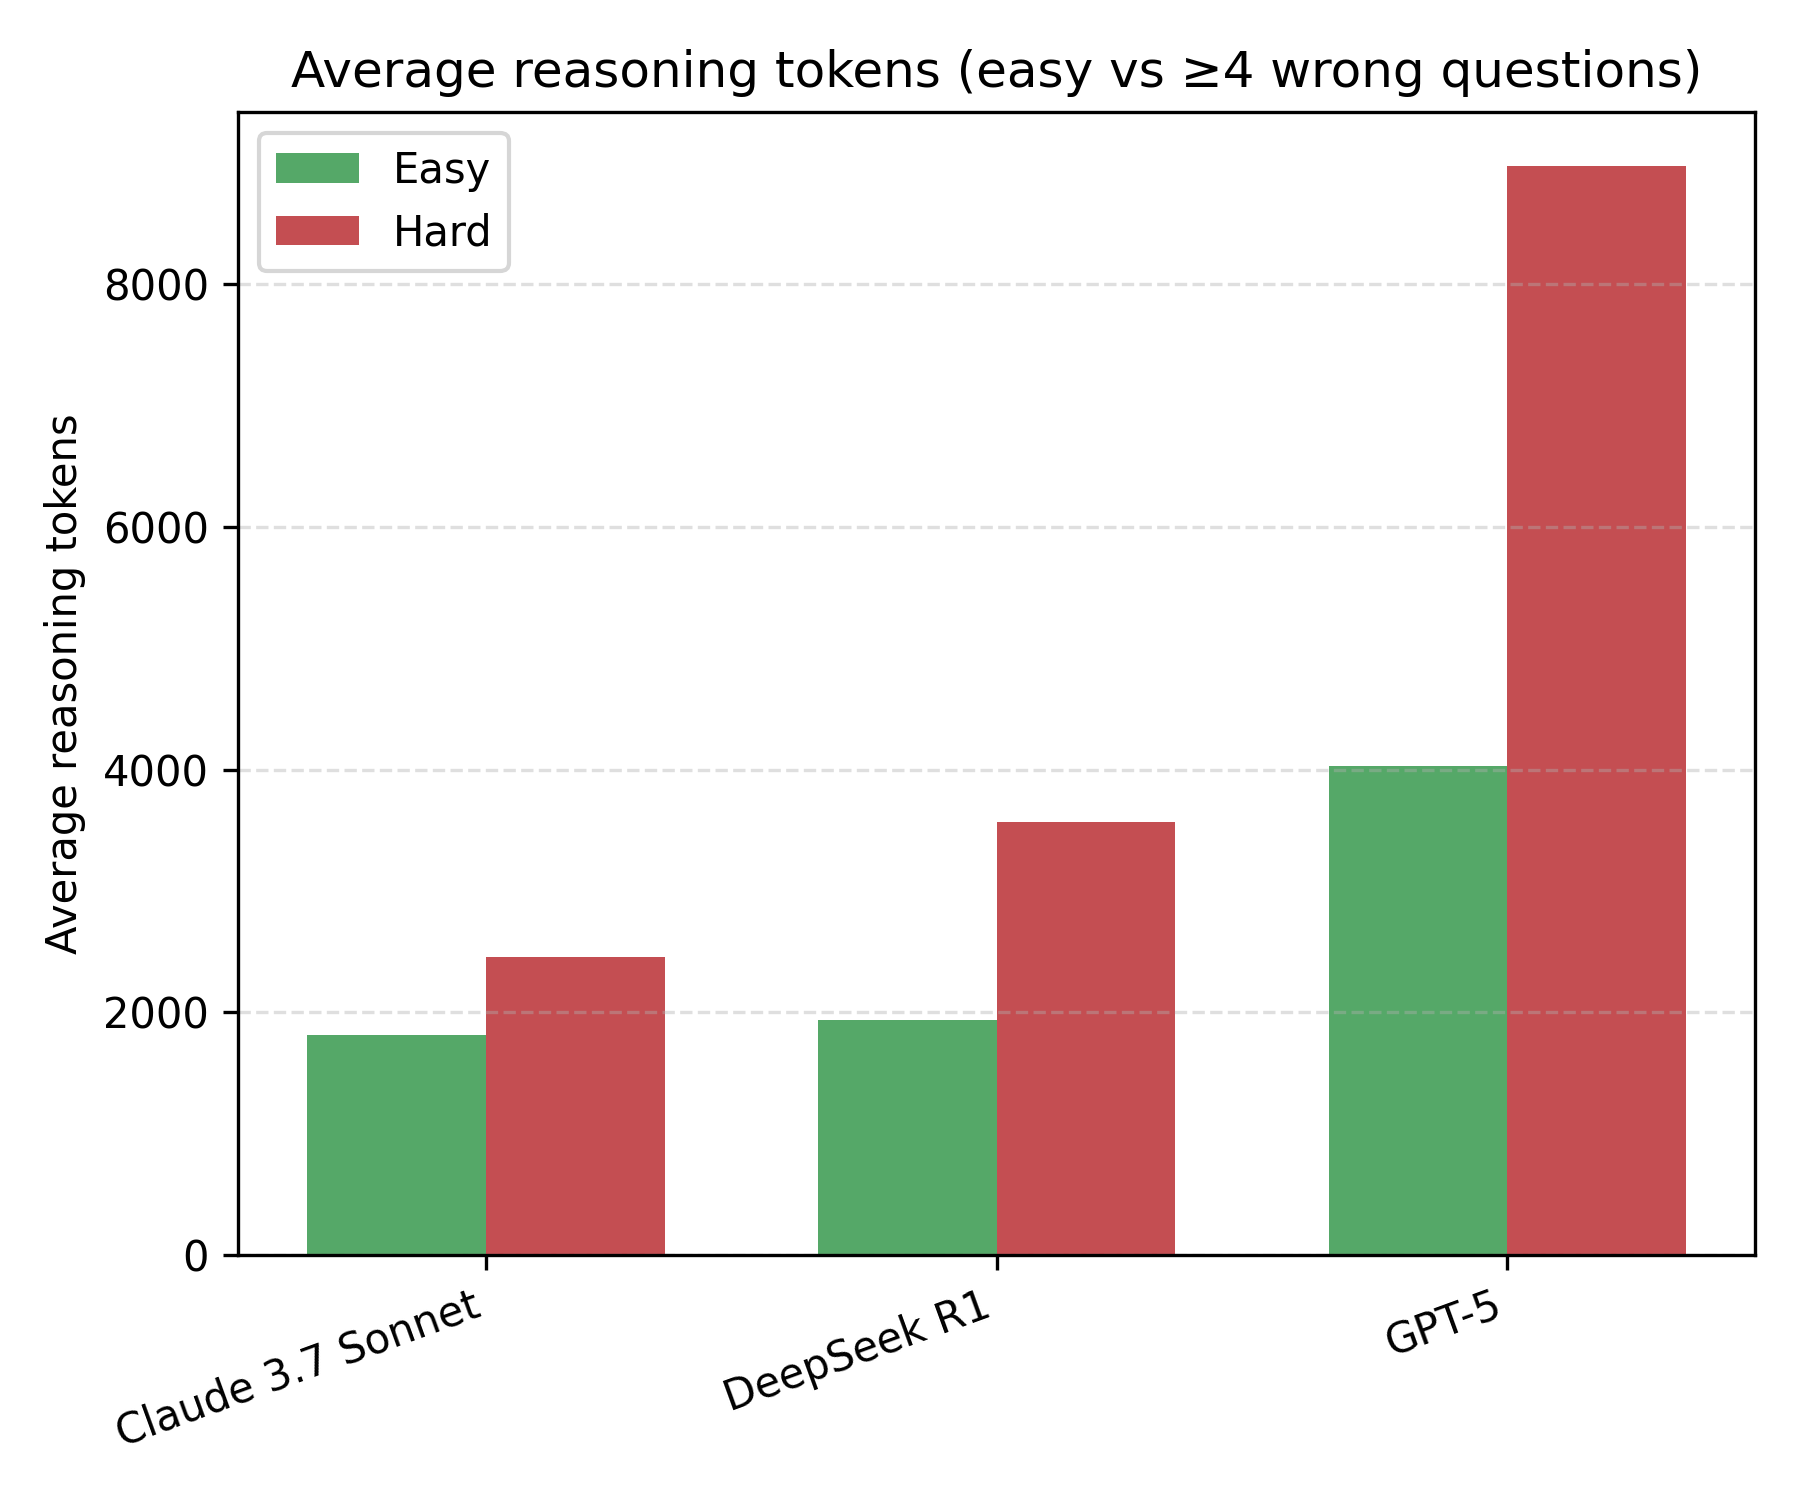
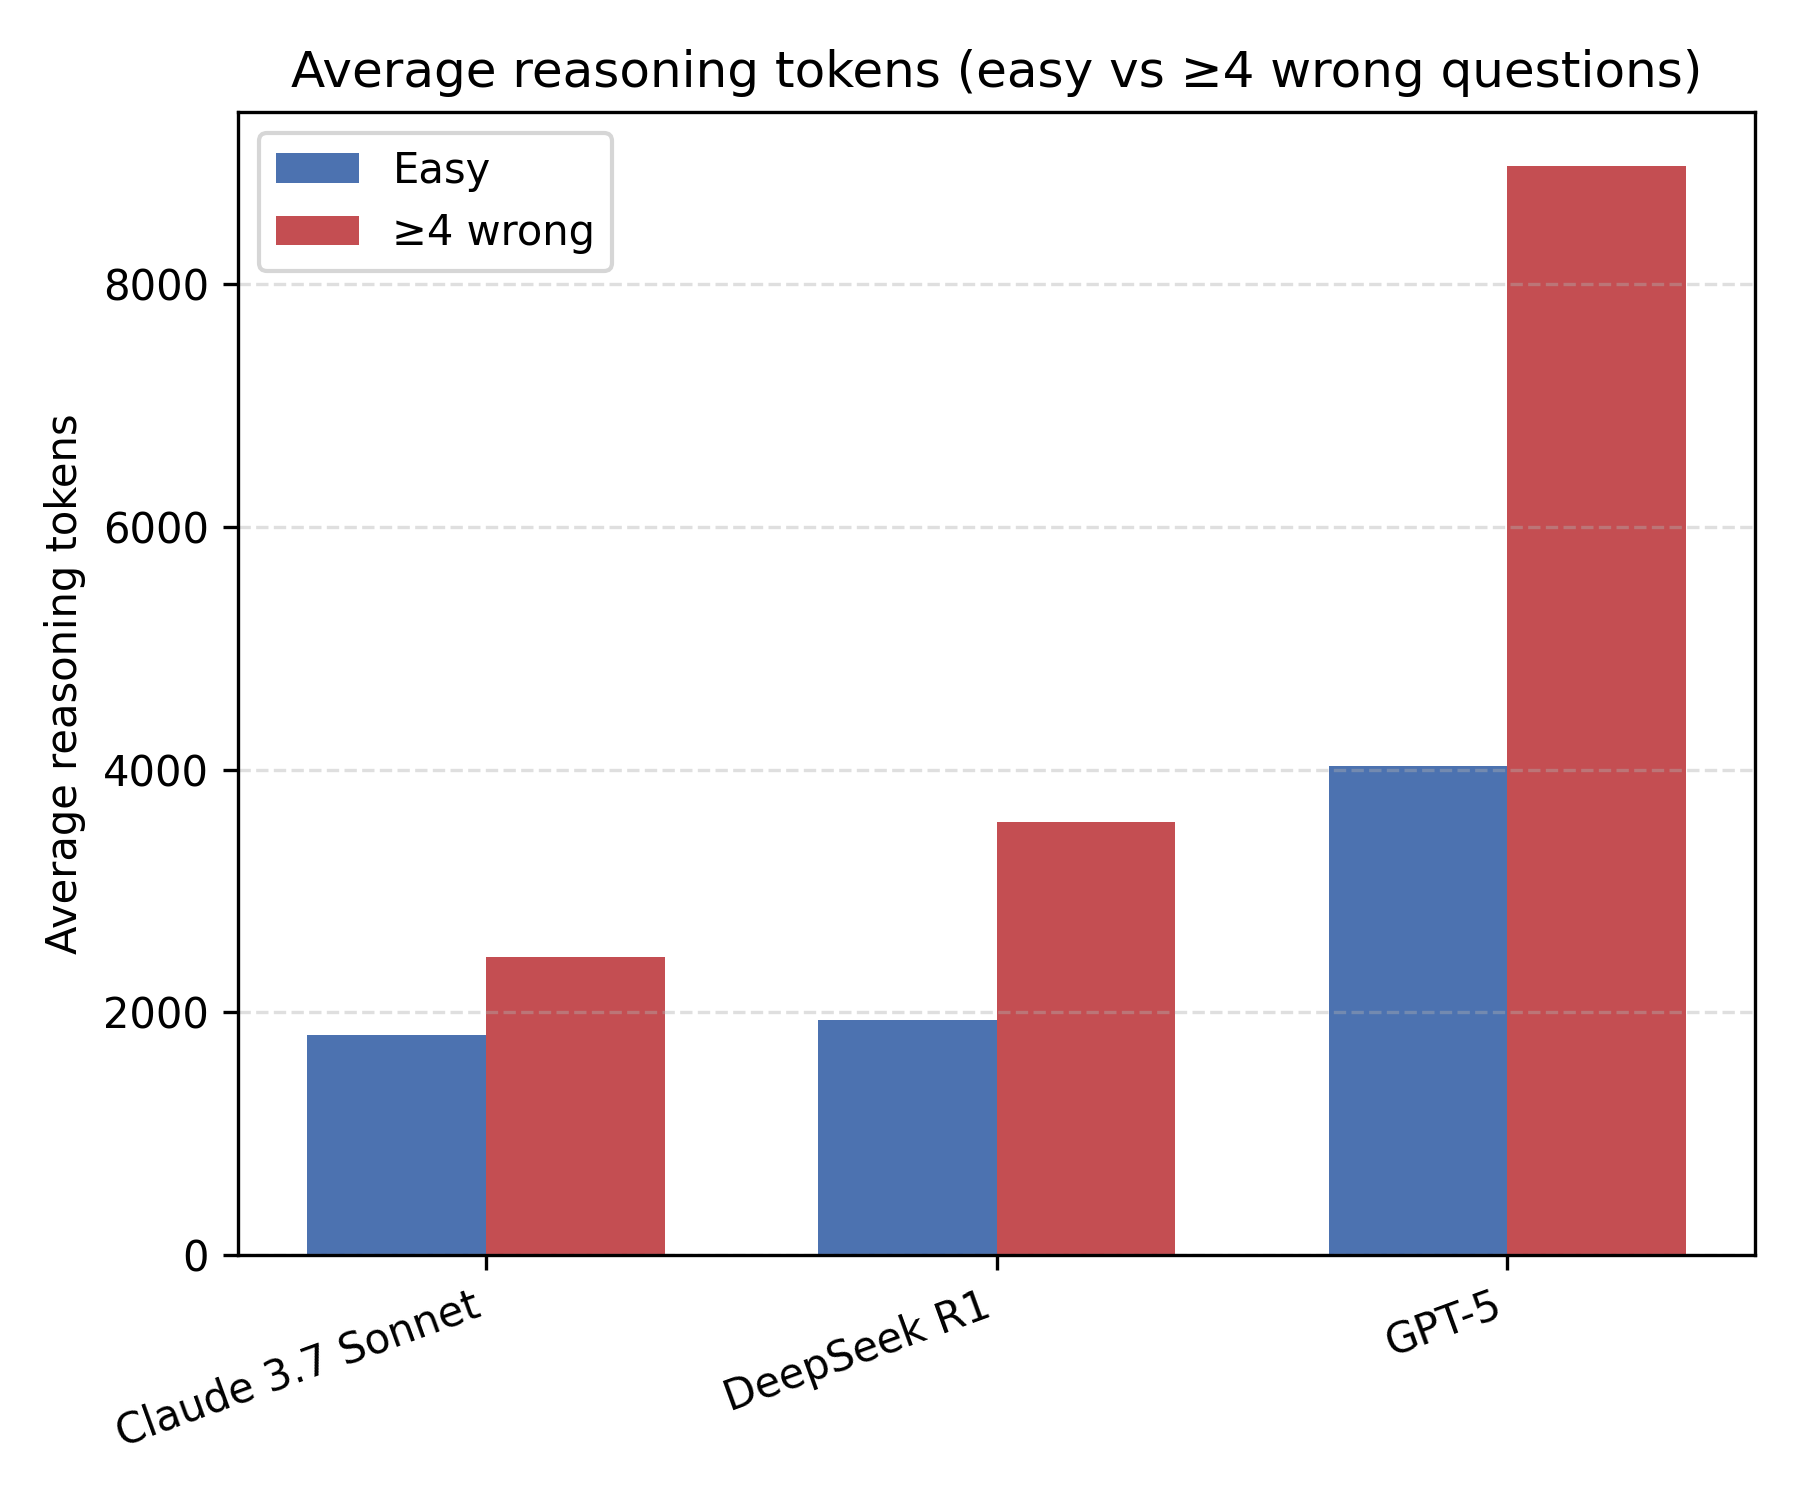
more plots are added

diff --git a/src/analyzing/plot_question_difficulty_tokens.py b/src/analyzing/plot_question_difficulty_tokens.py
@@ -48,10 +48,12 @@ def prepare_series(summary: Dict[str, Dict[str, float]], metric_key: str) -> Dic
     return series
 
 
-def plot_metric(
+def plot_two_series(
     models: List[str],
-    easy_vals: Dict[str, float],
-    hard_vals: Dict[str, float],
+    series_a: Dict[str, float],
+    series_b: Dict[str, float],
+    label_a: str,
+    label_b: str,
     title: str,
     ylabel: str,
     output_path: Path,
@@ -63,11 +65,11 @@ def plot_metric(
     def include_model(model: str) -> bool:
         if allowed_set is not None and model not in allowed_set:
             return False
-        easy_val = easy_vals.get(model)
-        hard_val = hard_vals.get(model)
-        easy_valid = easy_val is not None and easy_val == easy_val
-        hard_valid = hard_val is not None and hard_val == hard_val
-        return easy_valid or hard_valid
+        val_a = series_a.get(model)
+        val_b = series_b.get(model)
+        valid_a = val_a is not None and val_a == val_a
+        valid_b = val_b is not None and val_b == val_b
+        return valid_a or valid_b
 
     filtered_models = [model for model in models if include_model(model)]
     if not filtered_models:
@@ -77,12 +79,12 @@ def plot_metric(
     x_positions = range(len(filtered_models))
     width = 0.35
 
-    easy_values = [easy_vals.get(model, float("nan")) for model in filtered_models]
-    hard_values = [hard_vals.get(model, float("nan")) for model in filtered_models]
+    values_a = [series_a.get(model, float("nan")) for model in filtered_models]
+    values_b = [series_b.get(model, float("nan")) for model in filtered_models]
 
     fig, ax = plt.subplots(figsize=(max(6, len(filtered_models) * 1.8), 5))
-    ax.bar([x - width / 2 for x in x_positions], easy_values, width=width, label="Easy", color="#55a868")
-    ax.bar([x + width / 2 for x in x_positions], hard_values, width=width, label="Hard (wrong)", color="#c44e52")
+    ax.bar([x - width / 2 for x in x_positions], values_a, width=width, label=label_a, color="#4c72b0")
+    ax.bar([x + width / 2 for x in x_positions], values_b, width=width, label=label_b, color="#c44e52")
 
     ax.set_xticks(list(x_positions))
     ax.set_xticklabels([model_display_name(model) for model in filtered_models], rotation=20, ha="right")
@@ -123,7 +125,7 @@ def plot_hop_bar_chart(easy_questions, hard_questions, output_path: Path) -> Non
 
     fig, ax = plt.subplots(figsize=(max(6, len(hop_values) * 1.6), 5))
     ax.bar([x - width / 2 for x in x_positions], easy_values, width=width, label="Easy", color="#55a868")
-    ax.bar([x + width / 2 for x in x_positions], hard_values, width=width, label="Hard (>=4 wrong)", color="#c44e52")
+    ax.bar([x + width / 2 for x in x_positions], hard_values, width=width, label="Hard (≥4 wrong)", color="#c44e52")
 
     ax.set_xticks(list(x_positions))
     ax.set_xticklabels([str(hop) for hop in hop_values])
@@ -140,6 +142,23 @@ def plot_hop_bar_chart(easy_questions, hard_questions, output_path: Path) -> Non
     print(f"Saved {output_path}")
 
 
+def filter_hard_questions_by_wrong_count(
+    question_map: Dict[str, List],
+    *,
+    min_wrong: Optional[int] = None,
+    exact_wrong: Optional[int] = None,
+) -> Dict[str, List]:
+    filtered: Dict[str, List] = {}
+    for question, records in question_map.items():
+        wrong_count = sum(1 for record in records if not record.is_correct)
+        if min_wrong is not None and wrong_count < min_wrong:
+            continue
+        if exact_wrong is not None and wrong_count != exact_wrong:
+            continue
+        filtered[question] = records
+    return filtered
+
+
 def main() -> None:
     easy_path = DATASET_DIR / "easy_questions.jsonl"
     hard_path = DATASET_DIR / "hard_questions_min4.jsonl"
@@ -148,53 +167,93 @@ def main() -> None:
         raise FileNotFoundError("Run export_question_difficulty.py first to generate JSONL datasets.")
 
     easy_questions = load_question_map_jsonl(easy_path)
-    hard_questions = load_question_map_jsonl(hard_path)
+    hard_questions_min4 = load_question_map_jsonl(hard_path)
+    hard_questions_4 = filter_hard_questions_by_wrong_count(hard_questions_min4, exact_wrong=4)
+    hard_questions_6 = filter_hard_questions_by_wrong_count(hard_questions_min4, exact_wrong=6)
 
     easy_summary = summarise_token_usage(easy_questions, only_wrong=False)
-    hard_summary = summarise_token_usage(hard_questions, only_wrong=True)
+    hard_summary_min4 = summarise_token_usage(hard_questions_min4, only_wrong=True)
+    hard_summary_4 = summarise_token_usage(hard_questions_4, only_wrong=True)
+    hard_summary_6 = summarise_token_usage(hard_questions_6, only_wrong=True)
 
-    all_models = collect_models(easy_questions, hard_questions)
+    all_models = collect_models(easy_questions, hard_questions_min4, hard_questions_4, hard_questions_6)
 
     reasoning_easy = prepare_series(easy_summary, "reasoning_avg")
-    reasoning_hard = prepare_series(hard_summary, "reasoning_avg")
+    reasoning_hard_min4 = prepare_series(hard_summary_min4, "reasoning_avg")
+    reasoning_hard_4 = prepare_series(hard_summary_4, "reasoning_avg")
+    reasoning_hard_6 = prepare_series(hard_summary_6, "reasoning_avg")
+
     output_easy = prepare_series(easy_summary, "output_avg")
-    output_hard = prepare_series(hard_summary, "output_avg")
+    output_hard_min4 = prepare_series(hard_summary_min4, "output_avg")
+    output_hard_4 = prepare_series(hard_summary_4, "output_avg")
+    output_hard_6 = prepare_series(hard_summary_6, "output_avg")
 
     repo_root = SCRIPT_DIR.parents[1]
     plots_dir = repo_root / "src" / "plots"
 
-    plot_metric(
+    # Existing comparisons
+    plot_two_series(
         all_models,
         reasoning_easy,
-        reasoning_hard,
-        "Average reasoning tokens (easy vs hard questions)",
+        reasoning_hard_min4,
+        "Easy",
+        "≥4 wrong",
+        "Average reasoning tokens (easy vs ≥4 wrong questions)",
         "Average reasoning tokens",
         plots_dir / "question_difficulty_reasoning_tokens_min4.png",
         allowed_models=REASONING_MODEL_KEYS,
     )
 
-    plot_metric(
+    plot_two_series(
         all_models,
         output_easy,
-        output_hard,
-        "Average output tokens (easy vs hard questions)",
+        output_hard_min4,
+        "Easy",
+        "≥4 wrong",
+        "Average output tokens (easy vs ≥4 wrong questions)",
         "Average output tokens",
         plots_dir / "question_difficulty_output_tokens_min4.png",
     )
 
-    plot_metric(
+    plot_two_series(
         all_models,
         output_easy,
-        output_hard,
-        "Average output tokens (reasoning models)",
+        output_hard_min4,
+        "Easy",
+        "≥4 wrong",
+        "Average output tokens (reasoning models, ≥4 wrong)",
         "Average output tokens",
         plots_dir / "question_difficulty_output_tokens_reasoning_min4.png",
         allowed_models=REASONING_MODEL_KEYS,
     )
 
+    # New 4-wrong vs 6-wrong comparisons
+    plot_two_series(
+        all_models,
+        reasoning_hard_4,
+        reasoning_hard_6,
+        "4 wrong",
+        "6 wrong",
+        "Average reasoning tokens (4 wrong vs 6 wrong questions)",
+        "Average reasoning tokens",
+        plots_dir / "question_difficulty_reasoning_tokens_4_vs_6.png",
+        allowed_models=REASONING_MODEL_KEYS,
+    )
+
+    plot_two_series(
+        all_models,
+        output_hard_4,
+        output_hard_6,
+        "4 wrong",
+        "6 wrong",
+        "Average output tokens (4 wrong vs 6 wrong questions)",
+        "Average output tokens",
+        plots_dir / "question_difficulty_output_tokens_4_vs_6.png",
+    )
+
     plot_hop_bar_chart(
         easy_questions,
-        hard_questions,
+        hard_questions_min4,
         plots_dir / "question_difficulty_hop_distribution_min4.png",
     )
 
